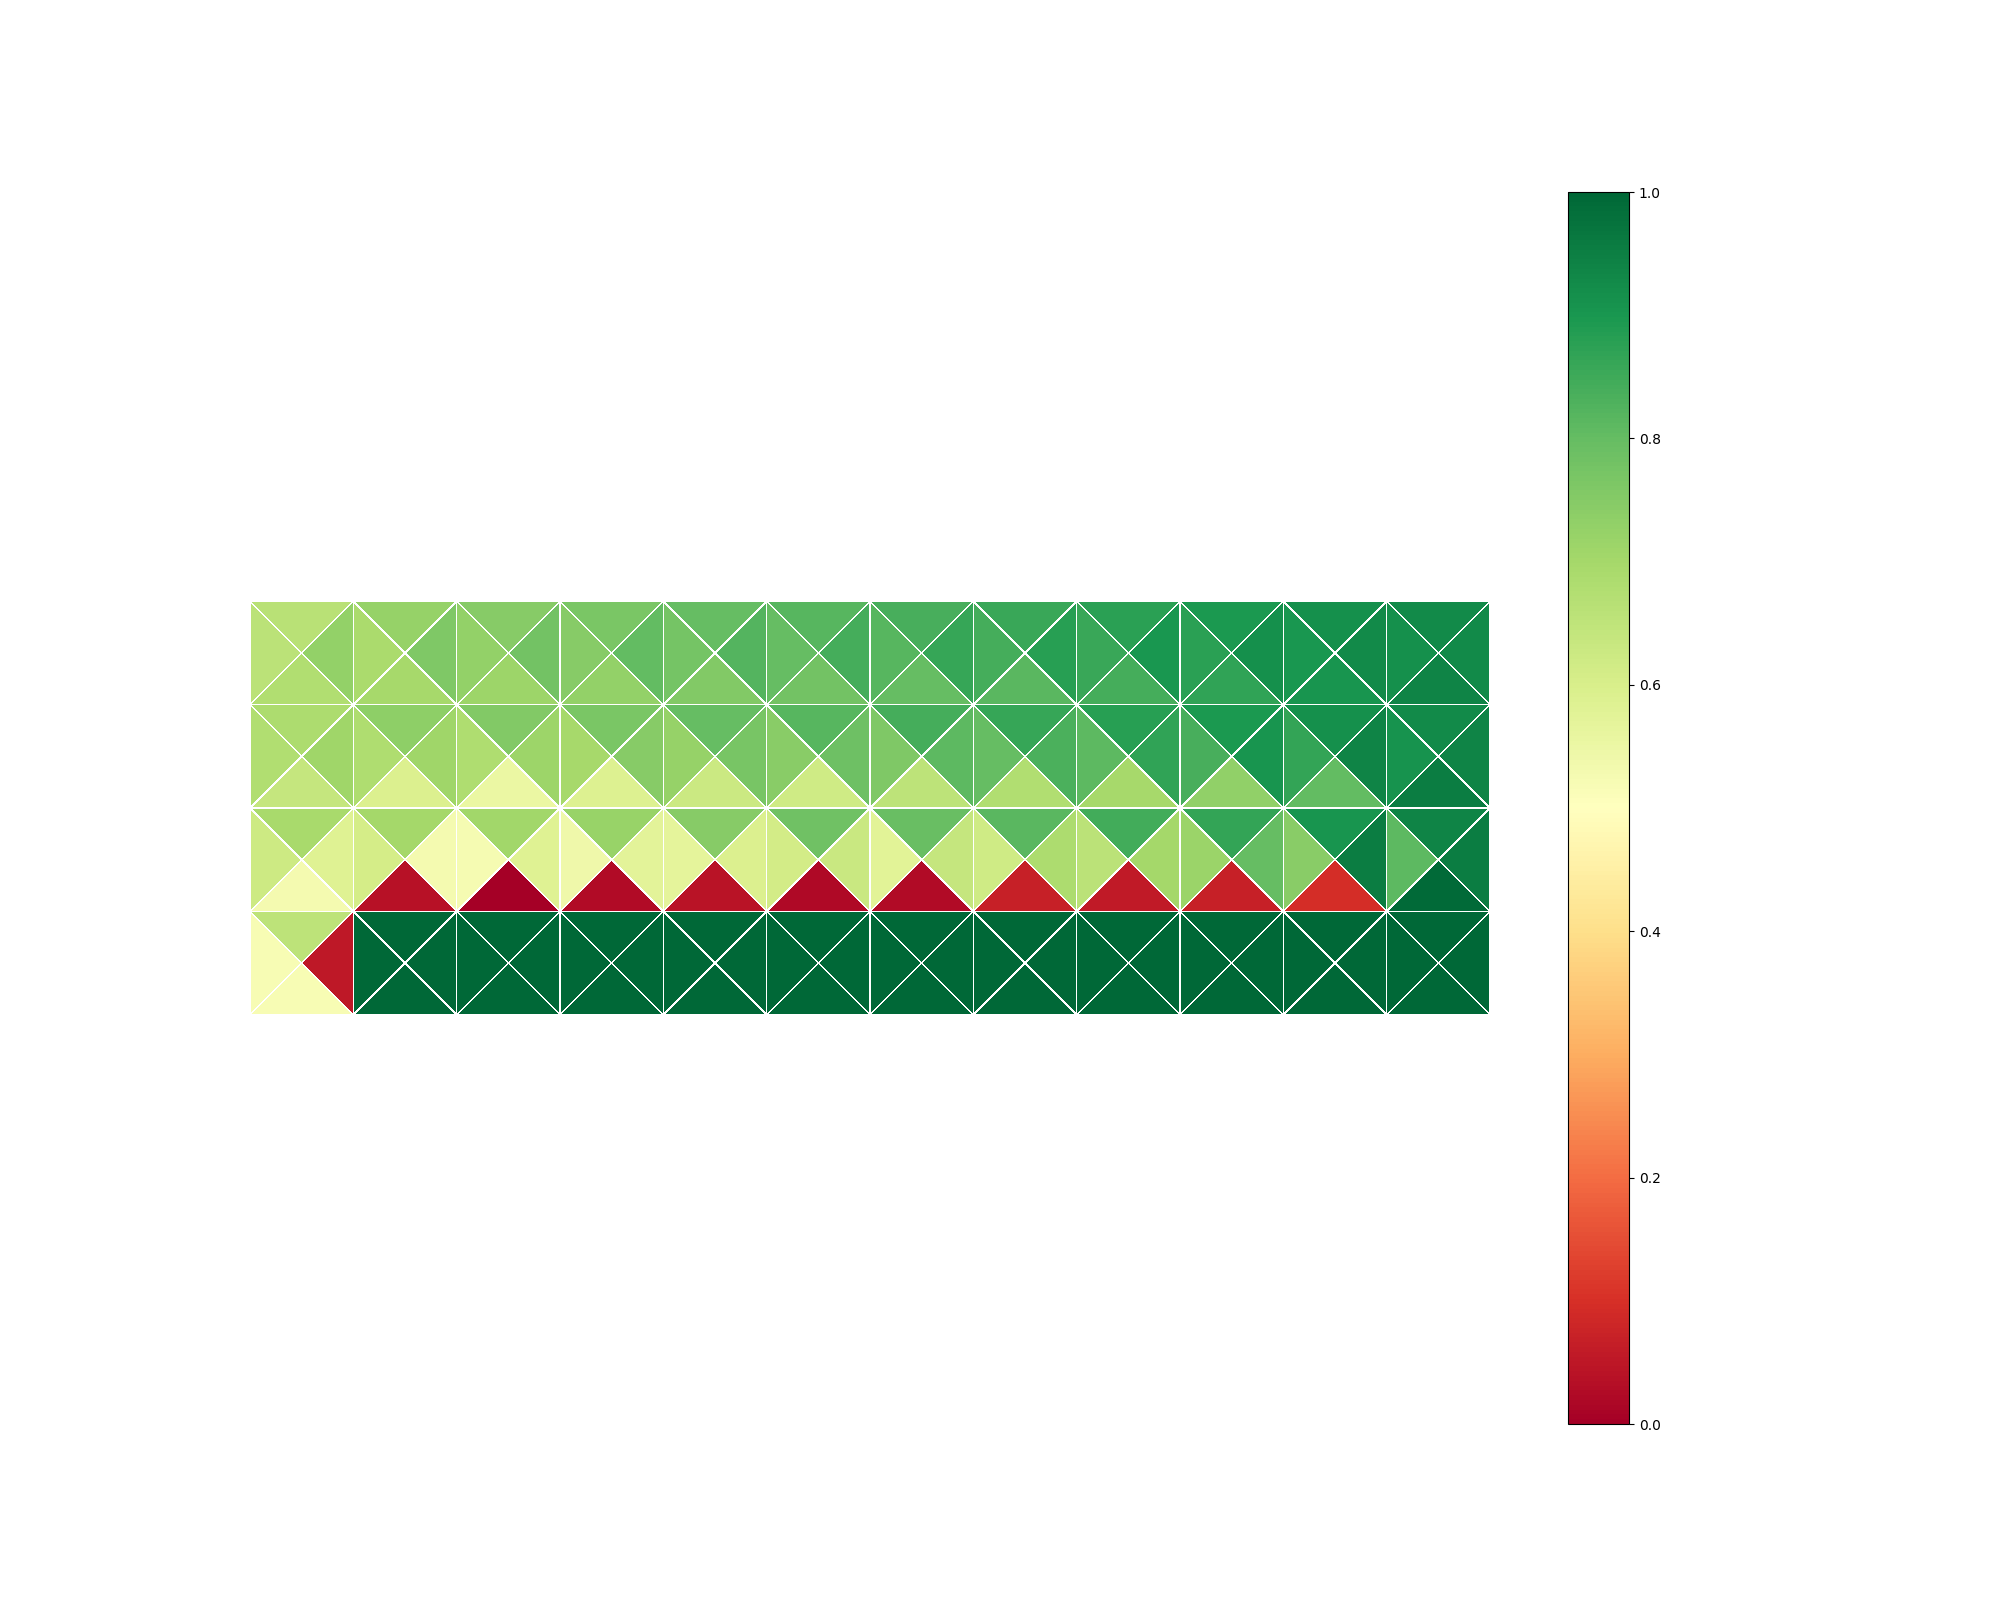
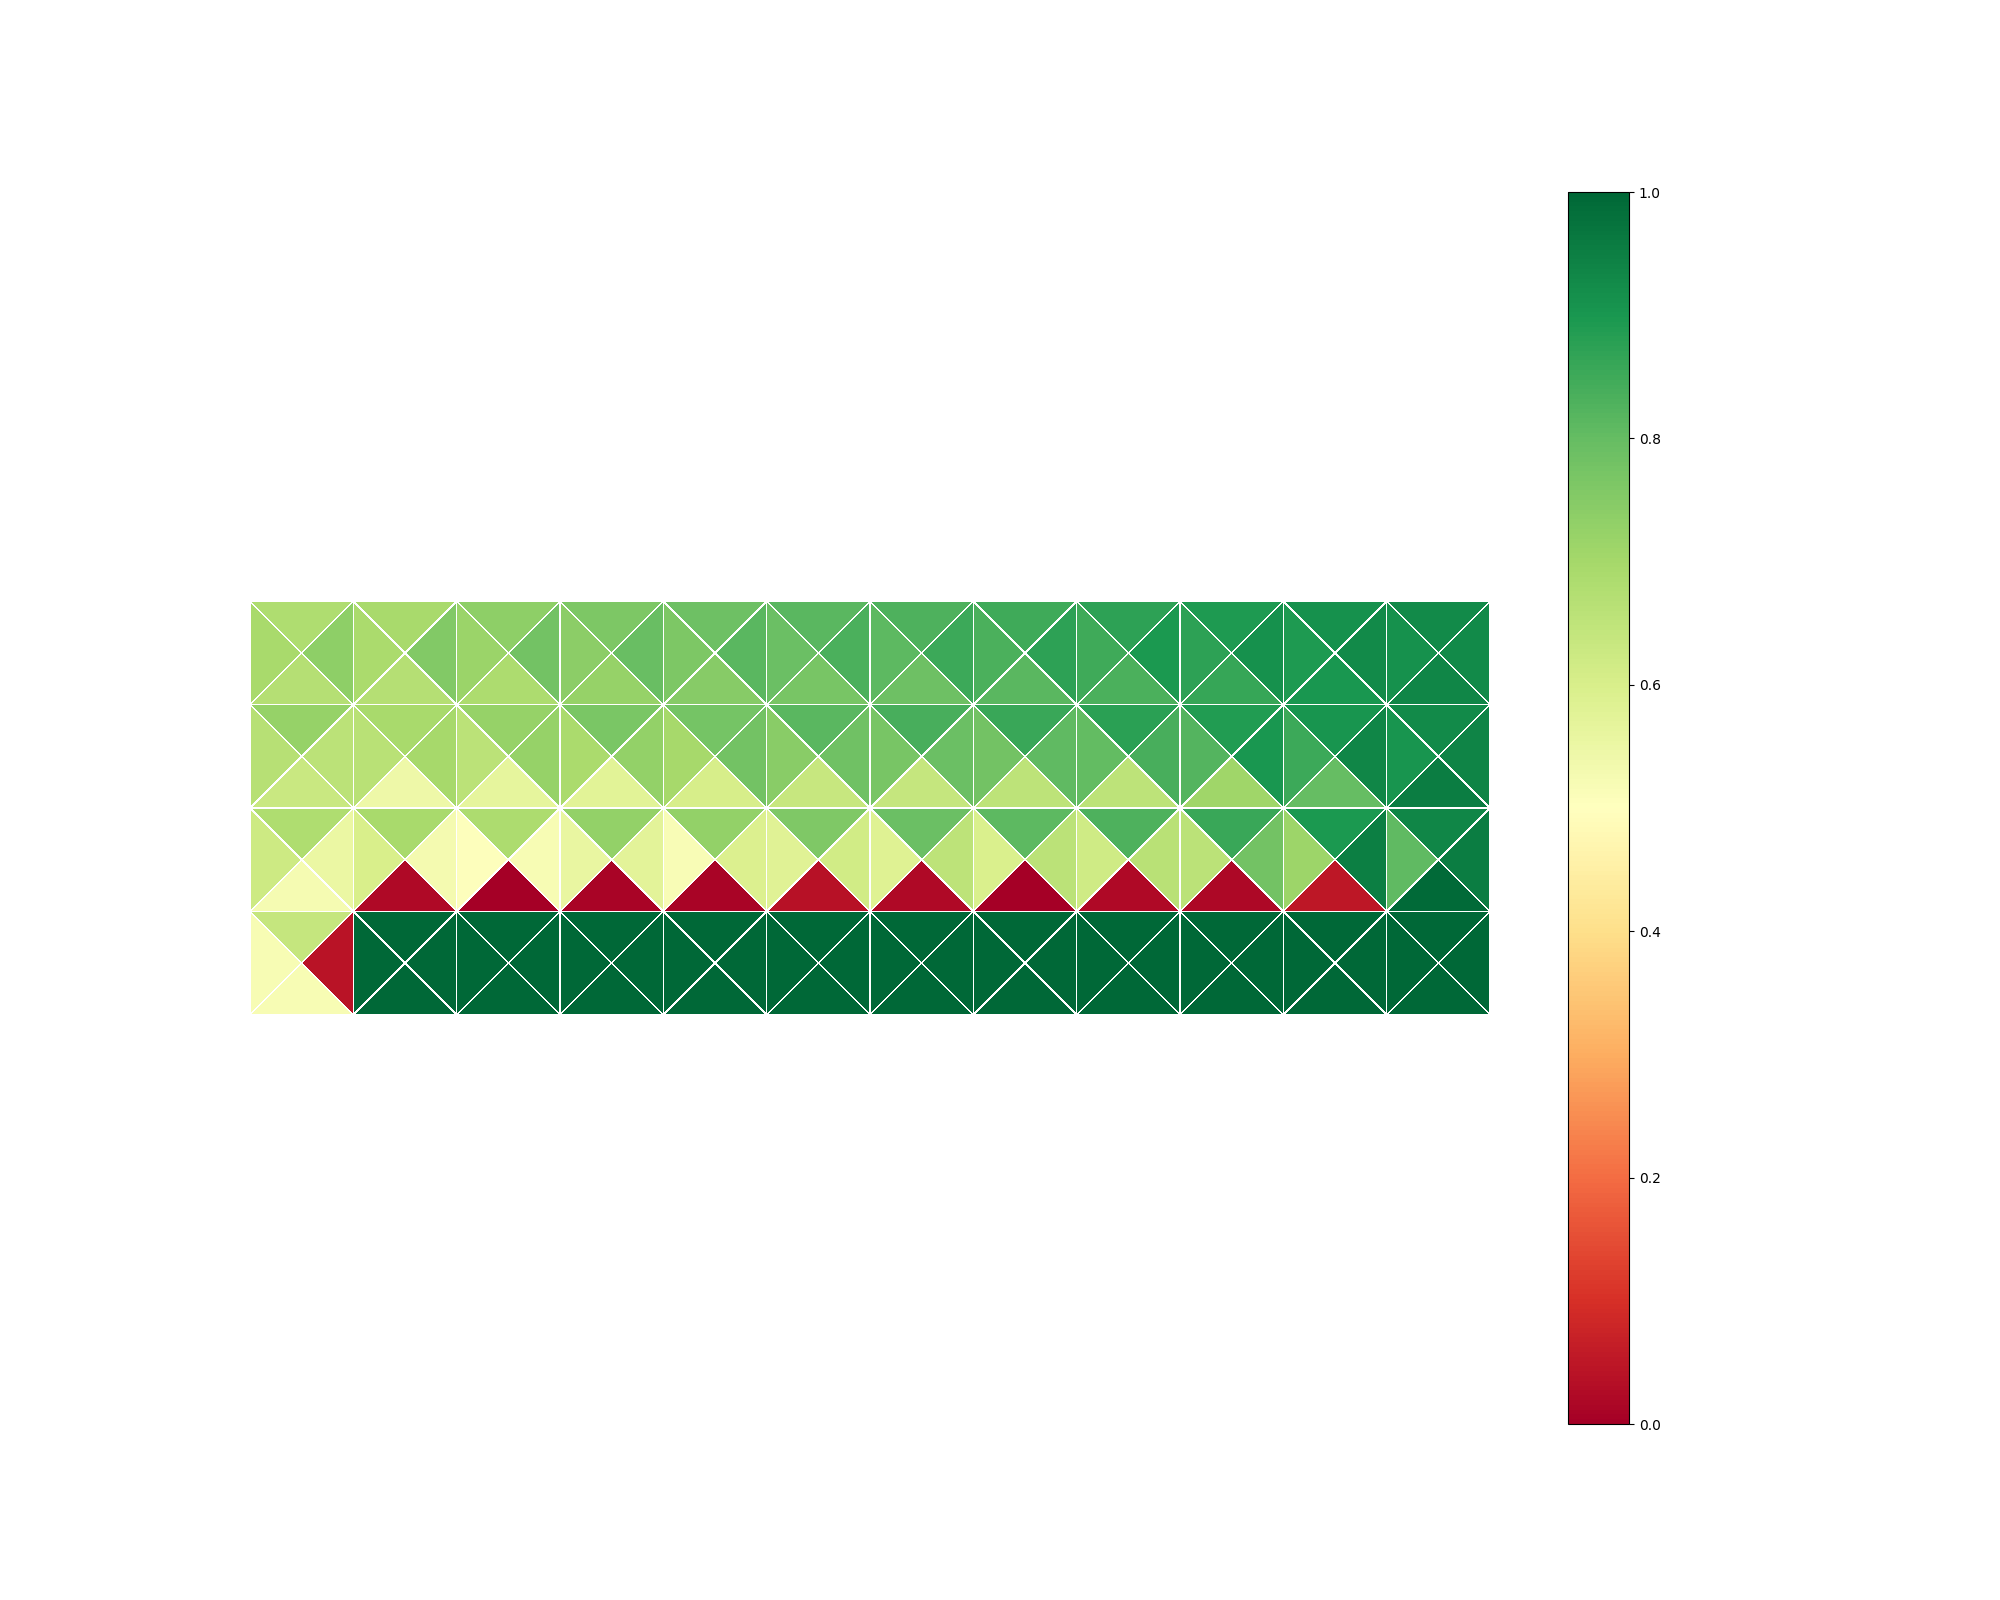
a million episodes

diff --git a/model-free/monte-carlo/mc-active/active-mc.py b/model-free/monte-carlo/mc-active/active-mc.py
@@ -211,7 +211,7 @@ def main():
      ## discount factor
     gamma = 0.9
     ## initialize episodes
-    tot_epoch = 500000
+    tot_epoch = 1000000
     # e-greedy policy
     epsilon = 0.5
     # make the environment
